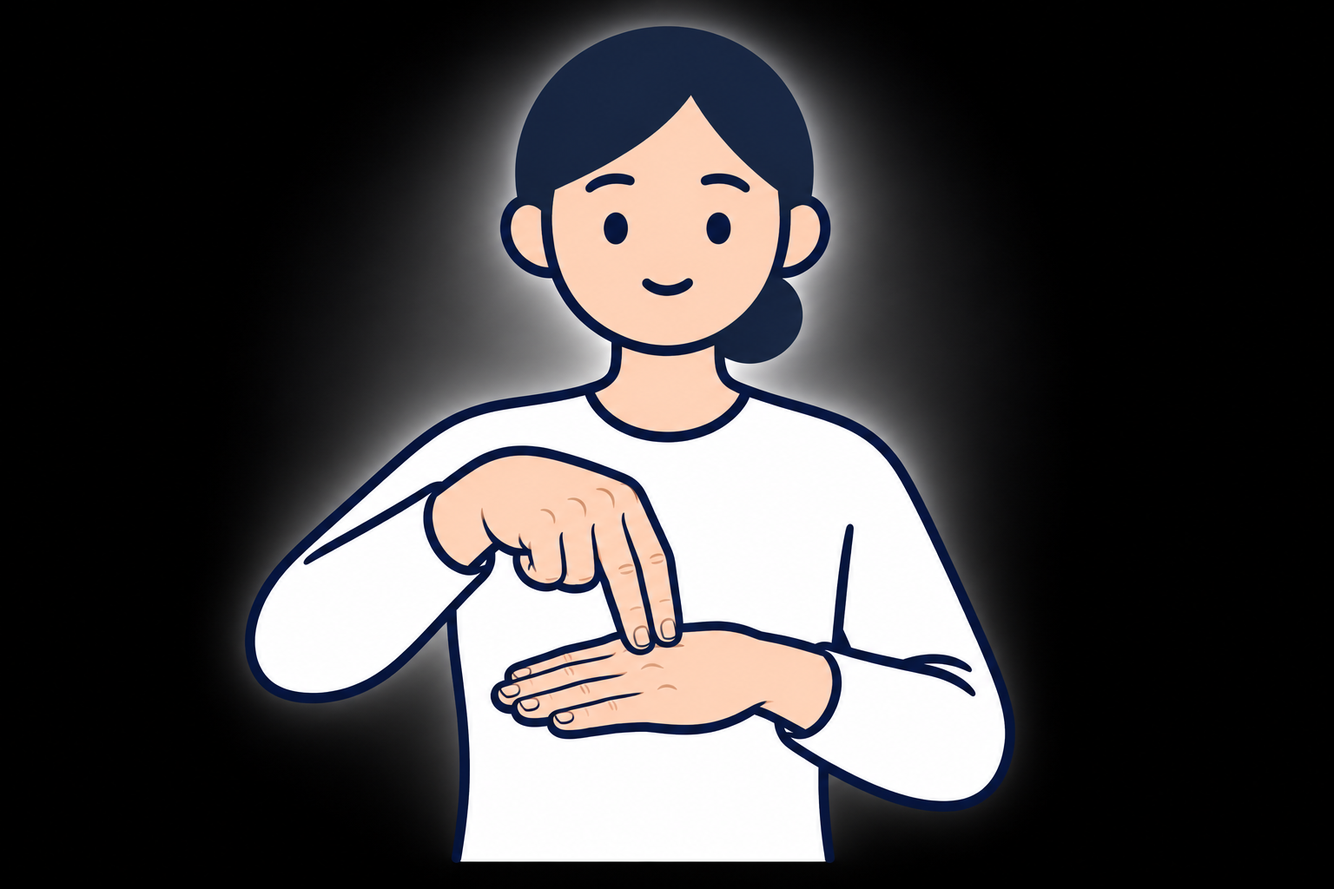
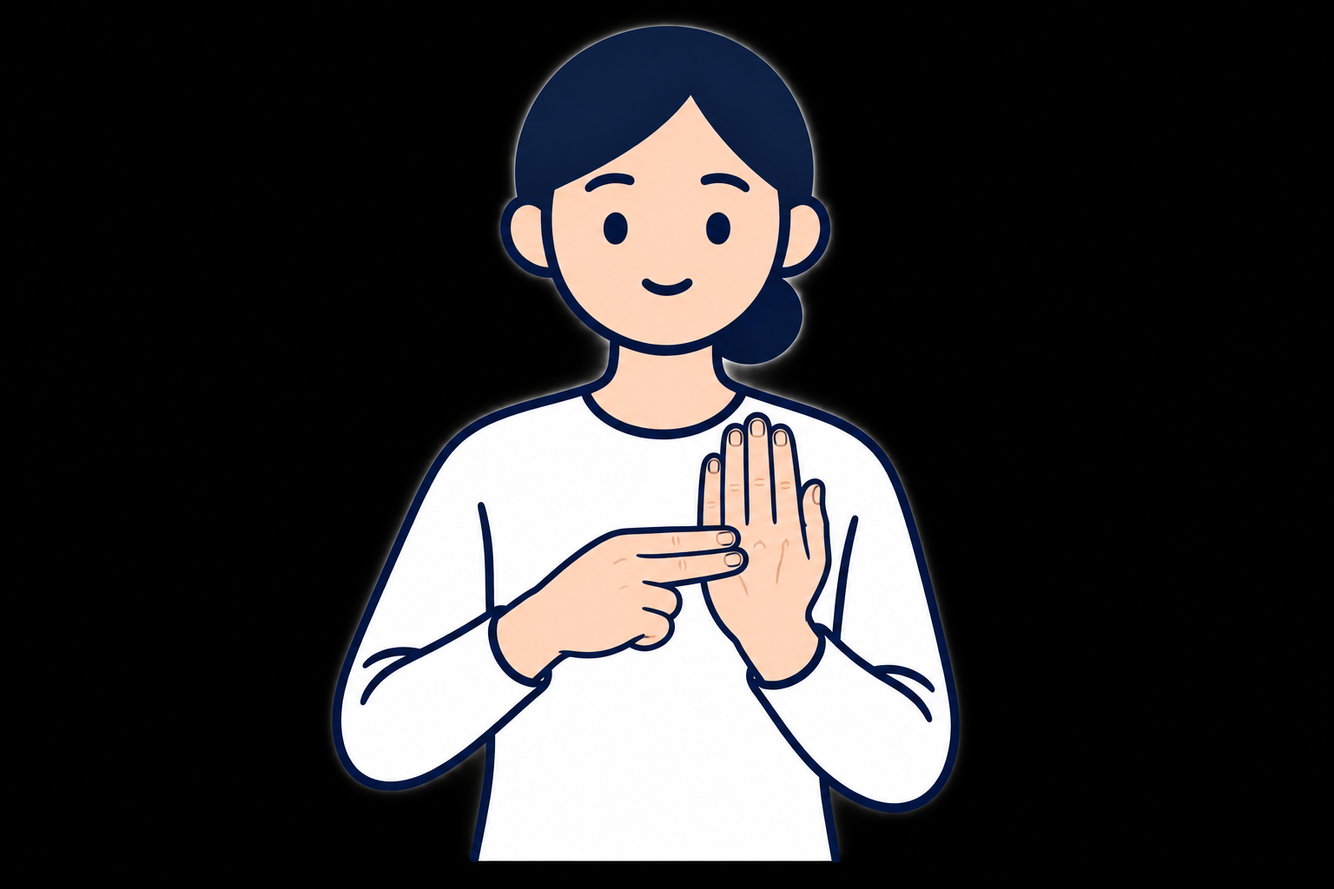
Add beer and rabbit signs and correct existing illustrations

Changed region(s): [[0.1562, 0.0, 0.7812, 0.9688], [0.5, 0.375, 0.5312, 0.4062], [0.4375, 0.1875, 0.4688, 0.2188]]

diff --git a/js/wordArt.js b/js/wordArt.js
@@ -2,5 +2,5 @@
  * dev/art/ingest.mjs 가 만든다. 손으로 고치지 않는다.
  * basis: 'sldict' 는 국립국어원 한국수어사전 기준으로 다시 그려 검수한 그림,
  *        'legacy' 는 처음 받은 도표를 바탕으로 한 그림(사전과 다를 수 있다). */
-export const WORD_FRAMES = {"안녕하세요":["sl3331-01.png","sl3331-02.png","sl3331-03.png"],"감사합니다":["sl2372-01.png","sl2372-02.png"],"미안합니다":["sl9917-01.png","sl9917-02.png"],"괜찮아요":["sl9466-01.png","sl9466-02.png"],"네":["sl9474-01.png"],"아니요":["sl24036-01.png","sl24036-02.png"],"도와주세요":["sl5447-01.png","sl5447-02.png"],"다시":["sl7422-01.png","sl7422-02.png"],"천천히":["sl9928-01.png","sl9928-02.png"],"이해했어요":["sl5993-01.png","sl5993-02.png"],"물":["sl10981-01.png","sl10981-02.png"],"화장실":["sl971-01.png"],"배고파요":["sl9387-01.png","sl9387-02.png"],"화나요":["sl1086-01.png","sl1086-02.png"],"슬퍼요":["sl7240-01.png","sl7240-02.png"],"기뻐요":["sl3874-01.png","sl3874-02.png"],"좋아요":["sl9078-01.png"],"싫어요":["sl23960-01.png"],"무서워요":["sl10967-01.png"],"피곤해요":["sl12438-01.png","sl12438-02.png"],"아파요":["sl5621-01.png"],"놀랐어요":["sl2336-01.png","sl2336-02.png"],"행복해요":["sl10223-01.png","sl10223-02.png"],"걱정돼요":["sl5127-01.png"],"나":["sl11536-01.png"],"너":["sl6450-01.png"],"우리":["sl8265-01.png","sl8265-02.png"],"여기":["sl8472-01.png"],"무엇":["sl7224-01.png"],"어디":["sl8799-01.png","sl8799-02.png"],"언제":["sl8602-01.png","sl8602-02.png"],"누구":["sl5394-01.png"],"왜":["sl7713-01.png"],"어떻게":["sl7256-01.png","sl7256-02.png"],"학교":["sl1352-01.png","sl1352-02.png"],"먹다":["sl10419-01.png","sl10419-02.png"],"친구":["sl7028-01.png","sl7028-02.png"],"만나다":["sl12165-01.png","sl12165-02.png"],"만들다":["sl12326-01.png","sl12326-02.png"],"이름":["sl7059-01.png"],"수어":["sl11290-01.png","sl11290-02.png"],"배우다":["sl9131-01.png","sl9131-02.png"],"병원":["sl10964-01.png","sl10964-02.png"],"가다":["sl11796-01.png","sl11796-02.png"],"오다":["sl7704-01.png","sl7704-02.png"],"가족":["sl6770-01.png","sl6770-02.png"],"사랑":["sl8240-01.png","sl8240-02.png"],"잘하다":["sl9543-01.png","sl9543-02.png"],"있다":["sl8966-01.png"],"없다":["sl9846-01.png","sl9846-02.png"],"엄마":["sl8214-01.png","sl8214-02.png"],"아빠":["sl2570-01.png","sl2570-02.png"],"오늘":["sl7703-01.png","sl7703-02.png"],"자다":["sl12264-01.png"],"내일":["sl6442-01.png","sl6442-02.png"],"어제":["sl8218-01.png","sl8218-02.png"],"우유":["sl9694-01.png","sl9694-02.png"],"커피":["sl8198-01.png","sl8198-02.png"],"보다":["sl6437-01.png","sl6437-02.png"],"듣다":["sl6417-01.png","sl6417-02.png"],"읽다":["sl8304-01.png","sl8304-02.png"],"물고기":["sl5947-01.png","sl5947-02.png"],"아침":["sl2231-01.png","sl2231-02.png"],"저녁":["sl11849-01.png","sl11849-02.png"],"맛있다":["sl6456-01.png","sl6456-02.png"],"맛없다":["sl9460-01.png","sl9460-02.png","sl9460-03.png"],"비":["sl6463-01.png","sl6463-02.png","sl6463-03.png"],"빨강":["sl6211-01.png","sl6211-02.png"],"파랑":["sl103-01.png","sl103-02.png"],"노랑":["sl12177-01.png","sl12177-02.png"],"검정":["sl6875-01.png","sl6875-02.png"],"하양":["sl3024-01.png"],"덥다":["sl6492-01.png","sl6492-02.png"],"춥다":["sl9670-01.png"],"포도":["sl498-01.png","sl498-02.png"],"칭찬하다":["sl11829-01.png","sl11829-02.png"],"열심히":["sl11501-01.png","sl11501-02.png"],"시끄럽다":["sl10730-01.png","sl10730-02.png"],"짜증":["sl6043-01.png","sl6043-02.png"],"그만":["sl39-01.png","sl39-02.png"],"조용하다":["sl9351-01.png","sl9351-02.png"],"귀찮다":["sl4322-01.png","sl4322-02.png"],"부끄럽다":["sl12013-01.png","sl12013-02.png"],"노력하다":["sl5522-01.png","sl5522-02.png"],"즐겁다":["sl12464-01.png","sl12464-02.png"],"신나다":["sl6046-01.png","sl6046-02.png"],"감동":["sl4564-01.png","sl4564-02.png","sl4564-03.png"],"상관없다":["sl3810-01.png","sl3810-02.png"],"사과":["sl11864-01.png","sl11864-02.png","sl11864-03.png","sl11864-04.png"],"바나나":["sl8450-01.png","sl8450-02.png","sl8450-03.png","sl8450-04.png"],"딸기":["sl6757-01.png","sl6757-02.png","sl6757-03.png","sl6757-04.png"],"빵":["sl6480-01.png","sl6480-02.png"]};
-export const WORD_BASIS = {"안녕하세요":"sldict","감사합니다":"sldict","미안합니다":"sldict","괜찮아요":"sldict","네":"sldict","아니요":"sldict","도와주세요":"sldict","다시":"sldict","천천히":"sldict","이해했어요":"sldict","물":"sldict","화장실":"sldict","배고파요":"sldict","화나요":"sldict","슬퍼요":"sldict","기뻐요":"sldict","좋아요":"sldict","싫어요":"sldict","무서워요":"sldict","피곤해요":"sldict","아파요":"sldict","놀랐어요":"sldict","행복해요":"sldict","걱정돼요":"sldict","나":"sldict","너":"sldict","우리":"sldict","여기":"sldict","무엇":"sldict","어디":"sldict","언제":"sldict","누구":"sldict","왜":"sldict","어떻게":"sldict","학교":"sldict","먹다":"sldict","친구":"sldict","만나다":"sldict","만들다":"sldict","이름":"sldict","수어":"sldict","배우다":"sldict","병원":"sldict","가다":"sldict","오다":"sldict","가족":"sldict","사랑":"sldict","잘하다":"sldict","있다":"sldict","없다":"sldict","엄마":"sldict","아빠":"sldict","오늘":"sldict","자다":"sldict","내일":"sldict","어제":"sldict","우유":"sldict","커피":"sldict","보다":"sldict","듣다":"sldict","읽다":"sldict","물고기":"sldict","아침":"sldict","저녁":"sldict","맛있다":"sldict","맛없다":"sldict","비":"sldict","빨강":"sldict","파랑":"sldict","노랑":"sldict","검정":"sldict","하양":"sldict","덥다":"sldict","춥다":"sldict","포도":"sldict","칭찬하다":"sldict","열심히":"sldict","시끄럽다":"sldict","짜증":"sldict","그만":"sldict","조용하다":"sldict","귀찮다":"sldict","부끄럽다":"sldict","노력하다":"sldict","즐겁다":"sldict","신나다":"sldict","감동":"sldict","상관없다":"sldict","사과":"sldict","바나나":"sldict","딸기":"sldict","빵":"sldict"};
+export const WORD_FRAMES = {"안녕하세요":["sl3331-01.png","sl3331-02.png","sl3331-03.png"],"감사합니다":["sl2372-01.png","sl2372-02.png"],"미안합니다":["sl9917-01.png","sl9917-02.png"],"괜찮아요":["sl9466-01.png","sl9466-02.png"],"네":["sl9474-01.png"],"아니요":["sl24036-01.png","sl24036-02.png"],"도와주세요":["sl5447-01.png","sl5447-02.png"],"다시":["sl7422-01.png","sl7422-02.png"],"천천히":["sl9928-01.png","sl9928-02.png"],"이해했어요":["sl5993-01.png","sl5993-02.png"],"물":["sl10981-01.png","sl10981-02.png"],"화장실":["sl971-01.png"],"배고파요":["sl9387-01.png","sl9387-02.png"],"화나요":["sl1086-01.png","sl1086-02.png"],"슬퍼요":["sl7240-01.png","sl7240-02.png"],"기뻐요":["sl3874-01.png","sl3874-02.png"],"좋아요":["sl9078-01.png"],"싫어요":["sl23960-01.png"],"무서워요":["sl10967-01.png"],"피곤해요":["sl12438-01.png","sl12438-02.png"],"아파요":["sl5621-01.png"],"놀랐어요":["sl2336-01.png","sl2336-02.png"],"행복해요":["sl10223-01.png","sl10223-02.png"],"걱정돼요":["sl5127-01.png"],"나":["sl11536-01.png"],"너":["sl6450-01.png"],"우리":["sl8265-01.png","sl8265-02.png"],"여기":["sl8472-01.png"],"무엇":["sl7224-01.png"],"어디":["sl8799-01.png","sl8799-02.png"],"언제":["sl8602-01.png","sl8602-02.png"],"누구":["sl5394-01.png"],"왜":["sl7713-01.png"],"어떻게":["sl7256-01.png","sl7256-02.png"],"학교":["sl1352-01.png","sl1352-02.png"],"먹다":["sl10419-01.png","sl10419-02.png"],"친구":["sl7028-01.png","sl7028-02.png"],"만나다":["sl12165-01.png","sl12165-02.png"],"만들다":["sl12326-01.png","sl12326-02.png"],"이름":["sl7059-01.png"],"수어":["sl11290-01.png","sl11290-02.png"],"배우다":["sl9131-01.png","sl9131-02.png"],"병원":["sl10964-01.png","sl10964-02.png"],"가다":["sl11796-01.png","sl11796-02.png"],"오다":["sl7704-01.png","sl7704-02.png"],"가족":["sl6770-01.png","sl6770-02.png"],"사랑":["sl8240-01.png","sl8240-02.png"],"잘하다":["sl9543-01.png","sl9543-02.png"],"있다":["sl8966-01.png"],"없다":["sl9846-01.png","sl9846-02.png"],"엄마":["sl8214-01.png","sl8214-02.png"],"아빠":["sl2570-01.png","sl2570-02.png"],"오늘":["sl7703-01.png","sl7703-02.png"],"자다":["sl12264-01.png"],"내일":["sl6442-01.png","sl6442-02.png"],"어제":["sl8218-01.png","sl8218-02.png"],"우유":["sl9694-01.png","sl9694-02.png"],"커피":["sl8198-01.png","sl8198-02.png"],"보다":["sl6437-01.png","sl6437-02.png"],"듣다":["sl6417-01.png","sl6417-02.png"],"읽다":["sl8304-01.png","sl8304-02.png"],"물고기":["sl5947-01.png","sl5947-02.png"],"아침":["sl2231-01.png","sl2231-02.png"],"저녁":["sl11849-01.png","sl11849-02.png"],"맛있다":["sl6456-01.png","sl6456-02.png"],"맛없다":["sl9460-01.png","sl9460-02.png","sl9460-03.png"],"비":["sl6463-01.png","sl6463-02.png","sl6463-03.png"],"빨강":["sl6211-01.png","sl6211-02.png"],"파랑":["sl103-01.png","sl103-02.png"],"노랑":["sl12177-01.png","sl12177-02.png"],"검정":["sl6875-01.png","sl6875-02.png"],"하양":["sl3024-01.png"],"덥다":["sl6492-01.png","sl6492-02.png"],"춥다":["sl9670-01.png"],"포도":["sl498-01.png","sl498-02.png"],"칭찬하다":["sl11829-01.png","sl11829-02.png"],"열심히":["sl11501-01.png","sl11501-02.png"],"시끄럽다":["sl10730-01.png","sl10730-02.png"],"짜증":["sl6043-01.png","sl6043-02.png"],"그만":["sl39-01.png","sl39-02.png"],"조용하다":["sl9351-01.png","sl9351-02.png"],"귀찮다":["sl4322-01.png","sl4322-02.png"],"부끄럽다":["sl12013-01.png","sl12013-02.png"],"노력하다":["sl5522-01.png","sl5522-02.png"],"즐겁다":["sl12464-01.png","sl12464-02.png"],"신나다":["sl6046-01.png","sl6046-02.png"],"감동":["sl4564-01.png","sl4564-02.png","sl4564-03.png"],"상관없다":["sl3810-01.png","sl3810-02.png"],"사과":["sl11864-01.png","sl11864-02.png","sl11864-03.png","sl11864-04.png"],"바나나":["sl8450-01.png","sl8450-02.png","sl8450-03.png","sl8450-04.png"],"딸기":["sl6757-01.png","sl6757-02.png","sl6757-03.png","sl6757-04.png"],"빵":["sl6480-01.png","sl6480-02.png"],"맥주":["sl7308-01.png","sl7308-02.png"],"토끼":["sl132-01.png","sl132-02.png"]};
+export const WORD_BASIS = {"안녕하세요":"sldict","감사합니다":"sldict","미안합니다":"sldict","괜찮아요":"sldict","네":"sldict","아니요":"sldict","도와주세요":"sldict","다시":"sldict","천천히":"sldict","이해했어요":"sldict","물":"sldict","화장실":"sldict","배고파요":"sldict","화나요":"sldict","슬퍼요":"sldict","기뻐요":"sldict","좋아요":"sldict","싫어요":"sldict","무서워요":"sldict","피곤해요":"sldict","아파요":"sldict","놀랐어요":"sldict","행복해요":"sldict","걱정돼요":"sldict","나":"sldict","너":"sldict","우리":"sldict","여기":"sldict","무엇":"sldict","어디":"sldict","언제":"sldict","누구":"sldict","왜":"sldict","어떻게":"sldict","학교":"sldict","먹다":"sldict","친구":"sldict","만나다":"sldict","만들다":"sldict","이름":"sldict","수어":"sldict","배우다":"sldict","병원":"sldict","가다":"sldict","오다":"sldict","가족":"sldict","사랑":"sldict","잘하다":"sldict","있다":"sldict","없다":"sldict","엄마":"sldict","아빠":"sldict","오늘":"sldict","자다":"sldict","내일":"sldict","어제":"sldict","우유":"sldict","커피":"sldict","보다":"sldict","듣다":"sldict","읽다":"sldict","물고기":"sldict","아침":"sldict","저녁":"sldict","맛있다":"sldict","맛없다":"sldict","비":"sldict","빨강":"sldict","파랑":"sldict","노랑":"sldict","검정":"sldict","하양":"sldict","덥다":"sldict","춥다":"sldict","포도":"sldict","칭찬하다":"sldict","열심히":"sldict","시끄럽다":"sldict","짜증":"sldict","그만":"sldict","조용하다":"sldict","귀찮다":"sldict","부끄럽다":"sldict","노력하다":"sldict","즐겁다":"sldict","신나다":"sldict","감동":"sldict","상관없다":"sldict","사과":"sldict","바나나":"sldict","딸기":"sldict","빵":"sldict","맥주":"sldict","토끼":"sldict"};

diff --git a/js/wordBank.js b/js/wordBank.js
@@ -2489,6 +2489,78 @@ export const WORD_BANK = [
   "sourceCheckedAt": "2026-11-05",
   "illustrationReview": "사전 원문·수형 사진 대조, 수어 전문가 검수 전"
 }),
+  e(7308, {
+  "word": "맥주",
+  "category": "생활",
+  "aliases": [],
+  "status": "ok",
+  "원문": "오른 손가락 끝을 모아 붙여 동그라미를 만들어 4지 옆면이 밖으로 향하게 한 다음, 5지만 굽히고 1·2·3·4지를 붙여 펴서 바닥이 밖으로 향하게 세운다.",
+  "hands": 1,
+  "수형": "오른 손끝을 모은 동그라미 → 엄지만 굽히고 네 손가락을 붙여 편 손",
+  "수향": "새끼손가락 옆면이 밖 → 손바닥이 밖",
+  "수위": "가슴 앞",
+  "수동": "오른 손가락 끝을 모아 붙여 동그라미를 만들어 4지 옆면이 밖으로 향하게 한 다음, 5지만 굽히고 1·2·3·4지를 붙여 펴서 바닥이 밖으로 향하게 세운다.",
+  "steps": [
+    "오른 손끝을 모아 붙여 동그라미를 만들고 새끼손가락 옆면을 밖으로 향한다",
+    "엄지만 굽히고 나머지 네 손가락을 붙여 펴 손바닥이 밖으로 향하게 세운다"
+  ],
+  "check": [
+    {
+      "hands": 1,
+      "zone": "chest"
+    },
+    {
+      "hands": 1,
+      "fingers": [
+        "index",
+        "middle",
+        "ring",
+        "pinky"
+      ],
+      "zone": "chest"
+    }
+  ],
+  "sourceCheckedAt": "2026-11-06",
+  "illustrationReview": "사전 원문·수형 사진 대조, 수어 전문가 검수 전"
+}),
+  e(132, {
+  "word": "토끼",
+  "category": "생활",
+  "aliases": [],
+  "status": "ok",
+  "원문": "왼 주먹의 5지를 펴서 바닥이 밖으로 향하게 세우고, 그 등에 오른 주먹의 1·2지를 펴서 등을 대고 구부렸다 폈다 한다.",
+  "hands": 2,
+  "수형": "엄지를 세운 왼 주먹과 검지·중지를 편 오른 주먹",
+  "수향": "왼손 바닥 쪽이 밖, 두 손등이 맞닿음",
+  "수위": "가슴 앞",
+  "수동": "왼 주먹의 5지를 펴서 바닥이 밖으로 향하게 세우고, 그 등에 오른 주먹의 1·2지를 펴서 등을 대고 구부렸다 폈다 한다.",
+  "steps": [
+    "왼 주먹의 엄지를 세워 손바닥 쪽을 밖으로 향하고 그 등에 오른 검지와 중지를 편 손의 등을 댄다",
+    "오른 검지와 중지를 구부렸다 편다"
+  ],
+  "check": [
+    {
+      "hands": 2,
+      "fingers": [
+        "index",
+        "middle"
+      ],
+      "other": [
+        "thumb"
+      ],
+      "zone": "chest"
+    },
+    {
+      "hands": 2,
+      "other": [
+        "thumb"
+      ],
+      "zone": "chest"
+    }
+  ],
+  "sourceCheckedAt": "2026-11-06",
+  "illustrationReview": "사전 원문·수형 사진 대조, 수어 전문가 검수 전"
+}),
 ];
 
 /* 사전에서 찾지 못한 것 — 따로 표제어가 없다. 가리키는 동작으로 대신 쓰인다. */

diff --git a/js/app.js b/js/app.js
@@ -9,21 +9,21 @@
  *     손이 보이는 동안 따라한 것으로 보아 단어를 읽어 준다
  */
 
-import { toFingerspell, composeFromJamo } from './hangul.js?v=202611051632';
-import { getPose } from './jamoData.js?v=202611051632';
-import { jamoArt, wordArt, wordFilm, wordFrameCount, WORD_POSE_FILES } from './illustrations.js?v=202611051632';
-import { describe } from './poseFeatures.js?v=202611051632';
-import { scorePose, scoreCheck, detectLateralShift, MOTION_WINDOW_MS } from './matcher.js?v=202611051632';
-import { Tracker } from './tracker.js?v=202611051632';
-import { createListener, speak, support, hasKoreanVoice } from './speech.js?v=202611051632';
-import { planUtterance, SOURCES, WORD_SIGNS } from './words.js?v=202611051632';
-import { PHRASE_GROUPS, phrasePlan } from './phrases.js?v=202611051632';
-import { groupByIdea } from './lessons.js?v=202611051632';
-import { loadProgress, markLearned, stageOf } from './progress.js?v=202611051632';
-import { createReader } from './reader.js?v=202611051632';
-import { motionStart, motionFeed, moveHint, travelled } from './motion.js?v=202611051632';
-import { createSignReader, readableSigns } from './signReader.js?v=202611051632';
-import { diagnose } from './diagnose.js?v=202611051632';
+import { toFingerspell, composeFromJamo } from './hangul.js?v=202611051644';
+import { getPose } from './jamoData.js?v=202611051644';
+import { jamoArt, wordArt, wordFilm, wordFrameCount, WORD_POSE_FILES } from './illustrations.js?v=202611051644';
+import { describe } from './poseFeatures.js?v=202611051644';
+import { scorePose, scoreCheck, detectLateralShift, MOTION_WINDOW_MS } from './matcher.js?v=202611051644';
+import { Tracker } from './tracker.js?v=202611051644';
+import { createListener, speak, support, hasKoreanVoice } from './speech.js?v=202611051644';
+import { planUtterance, SOURCES, WORD_SIGNS } from './words.js?v=202611051644';
+import { PHRASE_GROUPS, phrasePlan } from './phrases.js?v=202611051644';
+import { groupByIdea } from './lessons.js?v=202611051644';
+import { loadProgress, markLearned, stageOf } from './progress.js?v=202611051644';
+import { createReader } from './reader.js?v=202611051644';
+import { motionStart, motionFeed, moveHint, travelled } from './motion.js?v=202611051644';
+import { createSignReader, readableSigns } from './signReader.js?v=202611051644';
+import { diagnose } from './diagnose.js?v=202611051644';
 
 const $ = id => document.getElementById(id);
 const el = {

diff --git a/js/lessons.js b/js/lessons.js
@@ -5,16 +5,17 @@
  * 화면에 그림이 있는 낱말만 나온다. 어느 묶음에도 없는 낱말은 '그 밖'으로 간다.
  */
 export const SITUATIONS = [
+  { id: 'animals', name: '동물 이야기', words: ['토끼', '물고기'] },
   { id: 'snacks', name: '과일과 간식', words: ['사과', '포도', '바나나', '딸기', '빵'] },
   { id: 'encourage', name: '노력과 칭찬', words: ['열심히', '노력하다', '칭찬하다', '잘하다', '기뻐요', '행복해요'] },
   { id: 'boundaries', name: '불편한 마음 전하기', words: ['시끄럽다', '짜증', '그만', '싫어요', '화나요', '조용하다', '귀찮다', '상관없다'] },
   { id: 'colors', name: '색깔 이야기', words: ['빨강', '파랑', '노랑', '검정', '하양'] },
   { id: 'mealtime', name: '하루와 날씨·맛', words: ['아침', '저녁', '맛있다', '맛없다', '비', '덥다', '춥다'] },
-  { id: 'observe', name: '보고 듣고 배우기', words: ['보다', '듣다', '읽다', '물고기'] },
+  { id: 'observe', name: '보고 듣고 배우기', words: ['보다', '듣다', '읽다'] },
   { id: 'daily', name: '가족과 하루', words: ['엄마', '아빠', '오늘', '내일', '어제', '자다'] },
   { id: 'meet',  name: '처음 만났을 때',   words: ['안녕하세요', '나', '너', '우리', '친구', '만나다', '학교', '만들다', '이름', '가족'] },
   { id: 'stuck', name: '대화가 막힐 때',   words: ['수어', '배우다', '다시', '천천히', '이해했어요', '괜찮아요', '아니요', '미안합니다'] },
-  { id: 'help',  name: '도움이 필요할 때', words: ['병원', '가다', '오다', '있다', '없다', '도와주세요', '화장실', '어디', '여기', '물', '우유', '커피', '먹다', '배고파요'] },
+  { id: 'help',  name: '도움이 필요할 때', words: ['병원', '가다', '오다', '있다', '없다', '도와주세요', '화장실', '어디', '여기', '물', '우유', '커피', '맥주', '먹다', '배고파요'] },
   { id: 'ask',   name: '물어볼 때',       words: ['무엇', '누구', '언제', '왜', '어떻게', '네'] },
   { id: 'heart', name: '마음 전할 때',    words: ['사랑', '감사합니다', '좋아요', '슬퍼요', '즐겁다', '신나다', '감동'] },
   { id: 'feel',  name: '몸과 기분',       words: ['아파요', '피곤해요', '놀랐어요', '걱정돼요', '무서워요', '부끄럽다'] }

diff --git a/js/phrases.js b/js/phrases.js
@@ -1,7 +1,9 @@
 /* 한국어 연습 문장. 각 구성 낱말의 출처는 wordBank의 국립국어원 사전 항목이다.
    한국수어 어순·문법 번역이나 사전의 문장 용례로 주장하지 않는다. */
-import { planUtterance } from './words.js?v=202611051632';
+import { planUtterance } from './words.js?v=202611051644';
 export const PHRASE_GROUPS = [
+  { name: '동물 이야기', texts: ['토끼가 있어요', '토끼가 없어요', '토끼가 좋아요', '토끼를 봐요'] },
+  { name: '음료 고르기', texts: ['맥주가 있어요', '맥주가 없어요', '맥주가 좋아요', '맥주가 싫어요'] },
   { name: '과일과 간식', texts: ['바나나를 먹어요', '바나나가 맛있어요', '바나나가 있어요', '바나나가 좋아요', '딸기를 먹어요', '딸기가 맛있어요', '딸기가 있어요', '딸기가 좋아요', '빵을 먹어요', '빵이 맛있어요', '빵이 있어요', '빵이 좋아요'] },
   { name: '감동과 사과', texts: ['감동했어요 감사합니다', '오늘 감동했어요', '상관없어요 괜찮아요', '나는 상관없어요', '사과가 맛있어요', '사과를 먹어요', '사과가 있어요', '사과가 좋아요'] },
   { name: '노력과 즐거움', texts: ['나는 노력해요', '우리 노력해요', '열심히 노력해요', '오늘 즐거워요', '친구가 와요 즐거워요', '오늘 신나요', '친구가 와요 신나요', '수어를 배워요 즐거워요'] },

diff --git a/index.html b/index.html
@@ -13,14 +13,14 @@
   worker-src 'self' blob:;
   form-action 'none'; base-uri 'none'">
 <meta name="viewport" content="width=device-width, initial-scale=1, viewport-fit=cover">
-<meta name="build" content="202611051632">
+<meta name="build" content="202611051644">
 <title>손말</title>
 <meta name="description" content="말하거나 손으로 하면 손말이 읽어 줍니다. 한글 지문자와 자주 쓰는 수어 연습.">
 <link rel="preconnect" href="https://fonts.googleapis.com">
 <link rel="preconnect" href="https://fonts.gstatic.com" crossorigin>
 <link href="https://fonts.googleapis.com/css2?family=IBM+Plex+Sans+KR:wght@400;500;600;700&family=Inter:wght@400;500;600&display=swap" rel="stylesheet">
-<link rel="stylesheet" href="css/tokens.css?v=202611051632">
-<link rel="stylesheet" href="css/app.css?v=202611051632">
+<link rel="stylesheet" href="css/tokens.css?v=202611051644">
+<link rel="stylesheet" href="css/app.css?v=202611051644">
 </head>
 <body>
 <script>
@@ -166,6 +166,6 @@ if (location.protocol === 'file:') {
   <form method="dialog"><button class="primary" type="submit">닫기</button></form>
 </dialog>
 
-<script type="module" src="js/app.js?v=202611051632"></script>
+<script type="module" src="js/app.js?v=202611051644"></script>
 </body>
 </html>

diff --git a/js/reader.js b/js/reader.js
@@ -10,9 +10,9 @@
  * 그때는 한국어 글자 짜임으로 고른다. 자음 다음에는 모음이, 모음 다음에는 자음이 오기
  * 쉽고, 같은 갈래끼리면 더 자주 쓰이는 쪽을 고른다. 그래도 틀릴 수 있어 화면에 후보를 같이 보인다.
  */
-import { ALL_POSES } from './jamoData.js?v=202611051632';
-import { scorePose } from './matcher.js?v=202611051632';
-import { composeFromJamo } from './hangul.js?v=202611051632';
+import { ALL_POSES } from './jamoData.js?v=202611051644';
+import { scorePose } from './matcher.js?v=202611051644';
+import { composeFromJamo } from './hangul.js?v=202611051644';
 
 const ACCEPT = 0.88, TIE = 0.02, HOLD_MS = 550, RELEASE = 0.7, PAUSE_MS = 2200;
 const FREQ = 'ㅇㄱㄴㄹㅏㅣㅅㄷㅓㅡㅈㅗㅁㅜㅎㅂㅕㅐㅔㅊㅌㅛㅠㅋㅍㅑㅘㅚㅝㅟㅢㅒㅖㅙㅞㄲㄸㅃㅆㅉ';

diff --git a/js/signReader.js b/js/signReader.js
@@ -17,8 +17,8 @@
  *   말하지 않는 것보다 나쁘다.
  *   손가락 조건이 없는 단계가 있는 낱말은 거의 아무 손이나 맞으므로 읽을 대상에서 뺀다.
  */
-import { motionStart, motionFeed, moveHint, travelled } from './motion.js?v=202611051632';
-import { scoreCheck, ZONE_AT } from './matcher.js?v=202611051632';
+import { motionStart, motionFeed, moveHint, travelled } from './motion.js?v=202611051644';
+import { scoreCheck, ZONE_AT } from './matcher.js?v=202611051644';
 
 const FIT_SLACK = 0.35;
 const HOLD_MS = 400, GRACE_MS = 250, TRAVEL = 0.3, SETTLE_MS = 1000, MAX_WAIT_MS = 8000, LOST_MS = 500, STALE_MS = 3000;

diff --git a/js/words.js b/js/words.js
@@ -38,8 +38,8 @@
  * @property {boolean} recognizable 따라한 것을 인식까지 할 수 있는 단어인지
  */
 
-import { WORD_BANK } from './wordBank.js?v=202611051632';
-import { WORD_BASIS } from './wordArt.js?v=202611051632';
+import { WORD_BANK } from './wordBank.js?v=202611051644';
+import { WORD_BASIS } from './wordArt.js?v=202611051644';
 
 /* 처음 받은 도표로 만든 12개. 사전과 다른 것이 많다(docs/WORD-AUDIT.md).
    사전 기준 그림이 들어온 단어는 아래에서 wordBank 의 기록으로 갈아 끼운다. */

diff --git a/js/tracker.js b/js/tracker.js
@@ -7,8 +7,8 @@
  * 판정 로직을 그대로 확인하기 위한 개발용 경로다.
  */
 
-import { landmarksFor } from './mockHand.js?v=202611051632';
-import { ZONE_AT } from './matcher.js?v=202611051632';
+import { landmarksFor } from './mockHand.js?v=202611051644';
+import { ZONE_AT } from './matcher.js?v=202611051644';
 
 const TASKS_VISION = 'https://cdn.jsdelivr.net/npm/@mediapipe/tasks-vision@0.10.14';
 const MODEL = 'https://storage.googleapis.com/mediapipe-models/hand_landmarker/hand_landmarker/float16/1/hand_landmarker.task';

diff --git a/js/matcher.js b/js/matcher.js
@@ -4,7 +4,7 @@
  * 무엇이 어긋났는지를 짚는다. 문화체육관광부 수어 안내가 설명하는 네 요소다.
  */
 
-import { FINGERS, angleToDir } from './poseFeatures.js?v=202611051632';
+import { FINGERS, angleToDir } from './poseFeatures.js?v=202611051644';
 
 const DIR_DEG = { up: 0, right: 90, down: 180, left: 270 };
 const DIR_KO = { up: '위', right: '오른쪽', down: '아래', left: '왼쪽' };

diff --git a/js/illustrations.js b/js/illustrations.js
@@ -1,5 +1,5 @@
 // 각 파일에는 글자 없는 동작 한 장만 담는다. 도표 전체를 표시하지 않는다.
-import { WORD_FRAMES } from './wordArt.js?v=202611051632';
+import { WORD_FRAMES } from './wordArt.js?v=202611051644';
 const STEP_BASE = new URL('../assets/word-steps/', import.meta.url).href;
 const POSES = WORD_FRAMES;
 const SHEET_BASE = new URL('../assets/sheets/', import.meta.url).href;
